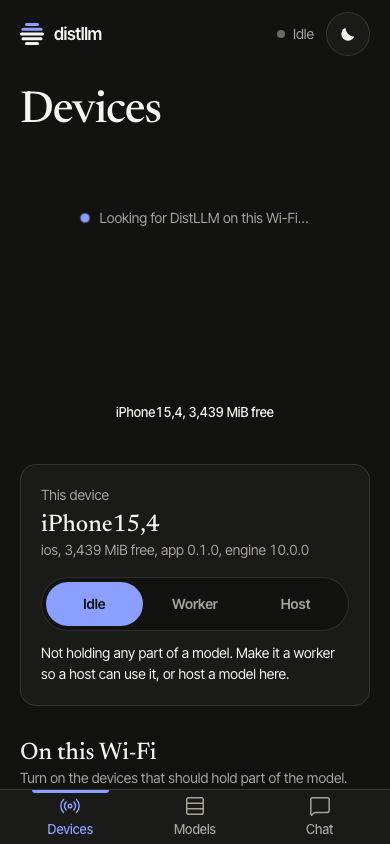
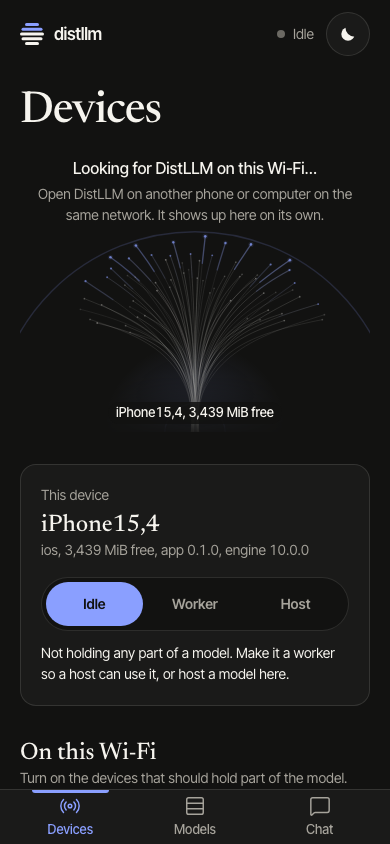
feat(ui): animated searching state on Devices
With no other device found, Devices showed a line of text. Now this
device's strands reach out while sonar rings ripple from its trunk and each
tip flares as a ring passes, with the caption and how to add a device. It
animates only while shown and nothing is found (paused when hidden); with
Reduce Motion it is a still picture.

Changed region(s): [[0.0923, 0.1848, 0.8923, 0.4929], [0.6462, 0.3081, 0.7385, 0.3389], [0.3692, 0.3697, 0.4, 0.4005]]

diff --git a/app/src/features/mesh/SearchingView.tsx b/app/src/features/mesh/SearchingView.tsx
@@ -1,0 +1,181 @@
+// No other device yet: this device's strands reach out while sonar rings ripple from its
+// trunk, and each strand's tip flares as a ring passes, the way an announcement goes out
+// and waits for an answer. It runs only while this screen shows and nothing is found;
+// with Reduce Motion it is a still picture.
+import { useEffect, useRef, useState } from "react";
+import { cn } from "@/lib/utils";
+import { canopy, type Point } from "./geometry";
+
+interface Fibre { a: number; reach: number; phase: number; lift: number; bend: number; tone: number }
+
+const FIBRES = 64;
+const PERIOD = 3200;   // ms between rings
+const RINGS = 2;
+
+function cssColor(name: string, alpha: number) {
+  const v = getComputedStyle(document.documentElement).getPropertyValue(name).trim();
+  return v ? `hsl(${v} / ${alpha})` : `rgba(128,128,128,${alpha})`;
+}
+
+/** Seeded, so the same fibres come back on every visit. */
+function fibres(): Fibre[] {
+  let s = 0x2c47c4;
+  const r = () => { s ^= s << 13; s ^= s >>> 17; s ^= s << 5; return ((s >>> 0) % 100000) / 100000; };
+  const span = (78 * Math.PI) / 180;
+  return Array.from({ length: FIBRES }, (_, i) => ({
+    a: -span + (2 * span * (i + r() * 0.8)) / FIBRES,
+    reach: 0.38 + Math.pow(r(), 0.7) * 0.5,
+    phase: r() * Math.PI * 2,
+    lift: 0.35 + r() * 0.35,
+    bend: 0.35 + r() * 0.3,
+    tone: 0.25 + r() * 0.75,
+  }));
+}
+
+function bezier(p0: Point, p1: Point, p2: Point, p3: Point, t: number): Point {
+  const u = 1 - t, a = u * u * u, b = 3 * u * u * t, c = 3 * u * t * t, d = t * t * t;
+  return { x: a * p0.x + b * p1.x + c * p2.x + d * p3.x, y: a * p0.y + b * p1.y + c * p2.y + d * p3.y };
+}
+
+export default function SearchingView({ trunk, className }: { trunk?: string; className?: string }) {
+  const box = useRef<HTMLDivElement>(null);
+  const canvas = useRef<HTMLCanvasElement>(null);
+  const [size, setSize] = useState({ w: 0, h: 0 });
+  const [theme, setTheme] = useState(0);
+
+  useEffect(() => {
+    const el = box.current;
+    if (!el || typeof ResizeObserver === "undefined") return;
+    const r0 = el.getBoundingClientRect();
+    setSize({ w: Math.round(r0.width), h: Math.round(r0.height) });
+    const ro = new ResizeObserver(([e]) => setSize({ w: Math.round(e.contentRect.width), h: Math.round(e.contentRect.height) }));
+    ro.observe(el);
+    const mo = new MutationObserver(() => setTheme((t) => t + 1));
+    mo.observe(document.documentElement, { attributes: true, attributeFilter: ["data-theme"] });
+    return () => { ro.disconnect(); mo.disconnect(); };
+  }, []);
+
+  useEffect(() => {
+    const c = canvas.current;
+    const ctx = c?.getContext?.("2d");
+    const { w, h } = size;
+    if (!c || !ctx || w === 0 || h === 0) return;
+    const dpr = Math.min(window.devicePixelRatio || 1, 3);
+    c.width = w * dpr;
+    c.height = h * dpr;
+    const cv = canopy(w, h);
+    const base = { x: w / 2, y: h + 2 };
+    const trunkTop = cv.cy + h * 0.06;
+    const maxR = Math.hypot(w / 2, h) * 1.02;
+    const fs = fibres();
+    const ink = (a: number) => cssColor("--strand", a);
+    const sig = (a: number) => cssColor("--signal", a);
+    const still = window.matchMedia?.("(prefers-reduced-motion: reduce)").matches ?? false;
+    let frame = 0;
+    const start = performance.now();
+
+    const draw = (now: number) => {
+      const t = still ? 1200 : now - start;
+      ctx.setTransform(dpr, 0, 0, dpr, 0, 0);
+      ctx.clearRect(0, 0, w, h);
+      ctx.lineCap = "round";
+
+      // Rings going out from the trunk's foot.
+      const rings = Array.from({ length: RINGS }, (_, k) => ((t + (k * PERIOD) / RINGS) % PERIOD) / PERIOD);
+      for (const p of rings) {
+        const r = p * maxR;
+        ctx.strokeStyle = sig(0.42 * (1 - p) * Math.min(1, p * 6));
+        ctx.lineWidth = 1.4;
+        ctx.beginPath();
+        ctx.arc(base.x, base.y, r, Math.PI, 2 * Math.PI);
+        ctx.stroke();
+      }
+
+      // A soft glow at the foot as each ring sets off.
+      const fresh = Math.max(...rings.map((p) => Math.max(0, 1 - p * 5)));
+      const glowR = Math.min(w, h) * 0.32;
+      const g = ctx.createRadialGradient(base.x, base.y, 0, base.x, base.y, glowR);
+      g.addColorStop(0, sig(0.22 * fresh + 0.06));
+      g.addColorStop(1, sig(0));
+      ctx.fillStyle = g;
+      ctx.fillRect(base.x - glowR, base.y - glowR, glowR * 2, glowR);
+
+      for (const f of fs) {
+        // Tips sway a little, as if feeling for something.
+        const sway = still ? 0 : Math.sin(t / 1700 + f.phase) * 0.035;
+        const a = f.a + sway;
+        const reach = f.reach * (1 + (still ? 0 : Math.sin(t / 2300 + f.phase * 1.7) * 0.04));
+        const end = { x: cv.cx + cv.rx * reach * Math.sin(a), y: cv.cy - cv.ry * reach * Math.cos(a) };
+        const p0 = { x: base.x + (f.phase / Math.PI - 1) * w * 0.012, y: base.y };
+        const p1 = { x: cv.cx, y: trunkTop - (trunkTop - end.y) * f.lift * 0.5 };
+        const p2 = { x: cv.cx + (end.x - cv.cx) * f.bend, y: end.y + (trunkTop - end.y) * 0.35 };
+
+        // How close a ring is to this tip right now: the tip flares as one passes.
+        const d = Math.hypot(end.x - base.x, end.y - base.y);
+        const glow = Math.max(...rings.map((p) => Math.exp(-(((p * maxR - d) / 16) ** 2)) * (1 - p)));
+
+        ctx.strokeStyle = ink(0.06 + 0.2 * f.tone);
+        ctx.lineWidth = 0.6;
+        ctx.beginPath();
+        ctx.moveTo(p0.x, p0.y);
+        ctx.bezierCurveTo(p1.x, p1.y, p2.x, p2.y, end.x, end.y);
+        ctx.stroke();
+
+        if (glow > 0.04) {
+          // Light the last stretch of the strand, then the tip.
+          ctx.strokeStyle = sig(0.85 * glow);
+          ctx.lineWidth = 1.4;
+          ctx.beginPath();
+          const s0 = bezier(p0, p1, p2, end, 0.8);
+          ctx.moveTo(s0.x, s0.y);
+          for (let k = 1; k <= 6; k++) { const q = bezier(p0, p1, p2, end, 0.8 + (0.2 * k) / 6); ctx.lineTo(q.x, q.y); }
+          ctx.stroke();
+          ctx.fillStyle = sig(0.25 * glow);
+          ctx.beginPath();
+          ctx.arc(end.x, end.y, 4.5 * glow + 1, 0, Math.PI * 2);
+          ctx.fill();
+        }
+        ctx.fillStyle = glow > 0.04 ? sig(0.5 + 0.5 * glow) : ink(0.35 * f.tone);
+        ctx.beginPath();
+        ctx.arc(end.x, end.y, 0.9 + 1.2 * glow, 0, Math.PI * 2);
+        ctx.fill();
+      }
+
+      // The trunk fades into the ground, as in the mesh.
+      const fade = ctx.createLinearGradient(0, h * 0.8, 0, h);
+      fade.addColorStop(0, "rgba(0,0,0,0)");
+      fade.addColorStop(1, "rgba(0,0,0,0.9)");
+      ctx.globalCompositeOperation = "destination-out";
+      ctx.fillStyle = fade;
+      ctx.fillRect(0, h * 0.8, w, h * 0.2);
+      ctx.globalCompositeOperation = "source-over";
+
+      if (!still) frame = requestAnimationFrame(draw);
+    };
+
+    const onVisible = () => {
+      cancelAnimationFrame(frame);
+      if (!document.hidden) frame = requestAnimationFrame(draw);
+    };
+    frame = requestAnimationFrame(draw);
+    document.addEventListener("visibilitychange", onVisible);
+    return () => { cancelAnimationFrame(frame); document.removeEventListener("visibilitychange", onVisible); };
+  }, [size, theme]);
+
+  return (
+    <div ref={box} className={cn("relative overflow-hidden", className)}>
+      <canvas ref={canvas} className="absolute inset-0 h-full w-full" aria-hidden />
+      <div role="status" className="absolute inset-x-0 top-3 px-4 text-center">
+        <p className="font-medium">Looking for DistLLM on this Wi‑Fi…</p>
+        <p className="mx-auto mt-1 max-w-xs text-pretty text-sm text-muted-foreground">
+          Open DistLLM on another phone or computer on the same network. It shows up here on its own.
+        </p>
+      </div>
+      {trunk && (
+        <p className="num absolute bottom-2 left-1/2 max-w-[70%] -translate-x-1/2 truncate rounded-md bg-background/85 px-2 py-0.5 text-xs font-medium">
+          {trunk}
+        </p>
+      )}
+    </div>
+  );
+}

diff --git a/app/src/features/devices/DevicesScreen.tsx b/app/src/features/devices/DevicesScreen.tsx
@@ -1,6 +1,7 @@
 // This device and the others on the network, drawn as the mesh they would form.
 // Pick workers here; load in Chat.
 import MeshView from "@/features/mesh/MeshView";
+import SearchingView from "@/features/mesh/SearchingView";
 import { peerNodes } from "@/features/mesh/nodes";
 import { useDevice, useLayout, usePeers } from "@/lib/stores";
 import { freeMib } from "@/lib/format";
@@ -20,19 +21,14 @@ export default function DevicesScreen() {
       <section>
         <h1 className="font-serif text-4xl font-medium tracking-tight">Devices</h1>
         <div className="relative mt-2">
-          <MeshView
-            className="h-72 desk:h-80"
-            nodes={peerNodes(peers)}
-            trunk={info ? `${info.name}, ${freeMib(info.free_mem_mb)}` : undefined}
-          />
-          {peers.length === 0 && (
-            <p role="status" className="absolute inset-x-0 top-16 flex items-center justify-center gap-2.5 text-sm text-muted-foreground">
-              <span aria-hidden className="relative flex size-2">
-                <span className="absolute inset-0 rounded-full bg-signal/70 motion-safe:animate-ping" />
-                <span className="relative size-2 rounded-full bg-signal" />
-              </span>
-              Looking for DistLLM on this Wi‑Fi…
-            </p>
+          {peers.length === 0 ? (
+            <SearchingView className="h-72 desk:h-80" trunk={info ? `${info.name}, ${freeMib(info.free_mem_mb)}` : undefined} />
+          ) : (
+            <MeshView
+              className="h-72 desk:h-80"
+              nodes={peerNodes(peers)}
+              trunk={info ? `${info.name}, ${freeMib(info.free_mem_mb)}` : undefined}
+            />
           )}
         </div>
       </section>

diff --git a/docs/evidence/4.6-ui.md b/docs/evidence/4.6-ui.md
@@ -10,6 +10,7 @@
 | Focus rings | Global `:focus-visible` ring in the accent. Sheets and dialogs now focus the panel when opened, not the close button, so no stray ring on every tap; the address dialog focuses its field. |
 | Contrast (WCAG AA, 4.5:1) | Measured from the theme tokens. Lowest: muted text on the light ground, 5.9:1. Body text 15–17:1. Accent text 6.4–7.6:1. Accent buttons 7.4:1 (light), 7.6:1 (dark). Error text 5.5:1. |
 | Motion only where it helps | Mesh lights only on real events (tokens, heartbeats, load steps); band sweep per token; one pulsing dot each for "searching" and the unopened split card; theme reveal. With Reduce Motion all of it stops; looping animations now run once instead of flickering. |
+| Empty Devices screen | While no other device is found, this device's strands reach out and sonar rings ripple from the trunk, each tip flaring as a ring passes, with "Looking for DistLLM on this Wi‑Fi…" and how to add one. Runs only while that screen shows and nothing is found; still with Reduce Motion. |
 | Spacing and hierarchy | Empty mesh boxes removed (Chat with no workers, loading on one device); loading shows the model's name, not its id; Delete on Models is a real button. |
 
 ## About sheet
